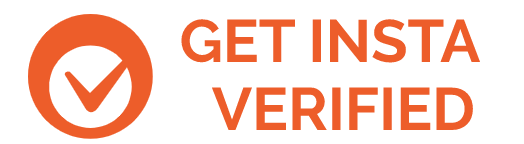
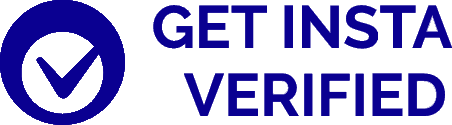
homedone Fix

diff --git a/src/css/Chi.css b/src/css/Chi.css
@@ -110,7 +110,7 @@ line-height: 61.56px;
 .ButtonG {
     margin-left: 30px;
     width: 250px;
-    background: #f86011;
+    background: navy;
     color: #ffffff;
     height: 50px;
     display: flex;

diff --git a/src/css/style.css b/src/css/style.css
@@ -122,7 +122,7 @@
 .Button {
   margin-left: 30px;
   width: 250px;
-  background: #f86011;
+  background: navy;
   color: #ffffff;
   height: 50px;
   display: flex;

diff --git a/src/css/Price.css b/src/css/Price.css
@@ -191,6 +191,7 @@ font-size: 45px;
     .green_div {
         width: 90%;
         padding: 5px;
+        font-size: 17px;
         text-align: center;
     }
 
